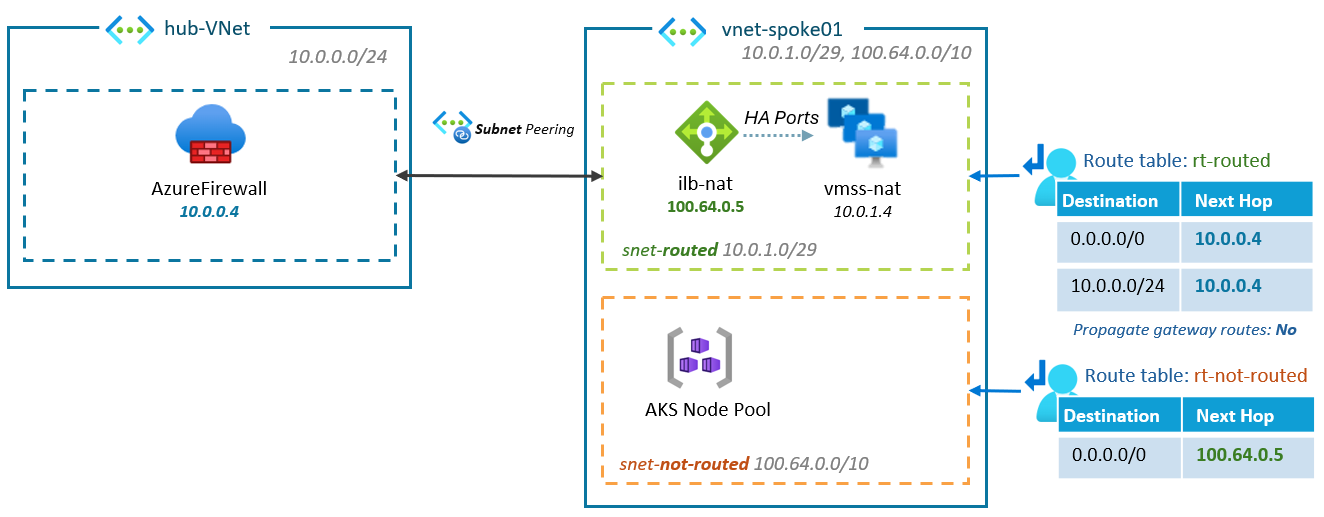
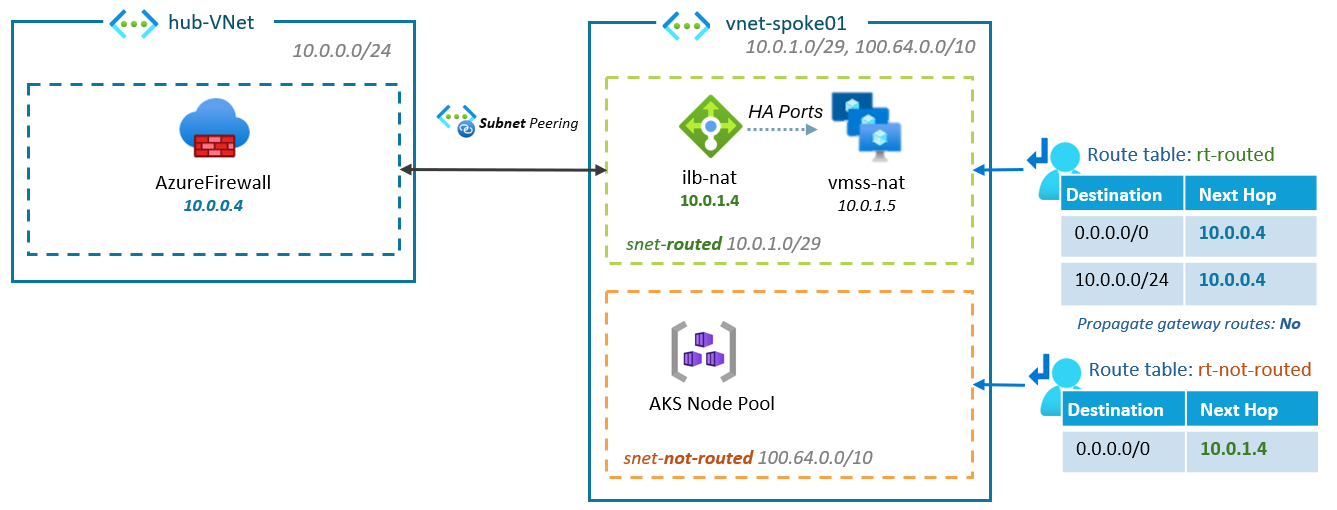
fix

diff --git a/README.md b/README.md
@@ -53,8 +53,11 @@ iptables -t nat
     -o eth0 
     -d 10.0.0.0/8 
     -j SNAT 	
-    --to-source 10.0.1.4
+    --to-source 10.0.1.5
 ```
+
+> [!NOTE]  
+> [IP forwarding](https://learn.microsoft.com/en-us/azure/virtual-network/virtual-network-network-interface?tabs=azure-portal#enable-or-disable-ip-forwarding) must be enabled at VMSS NICs level.
 
 **Advantages**:
 - Low-cost solution
